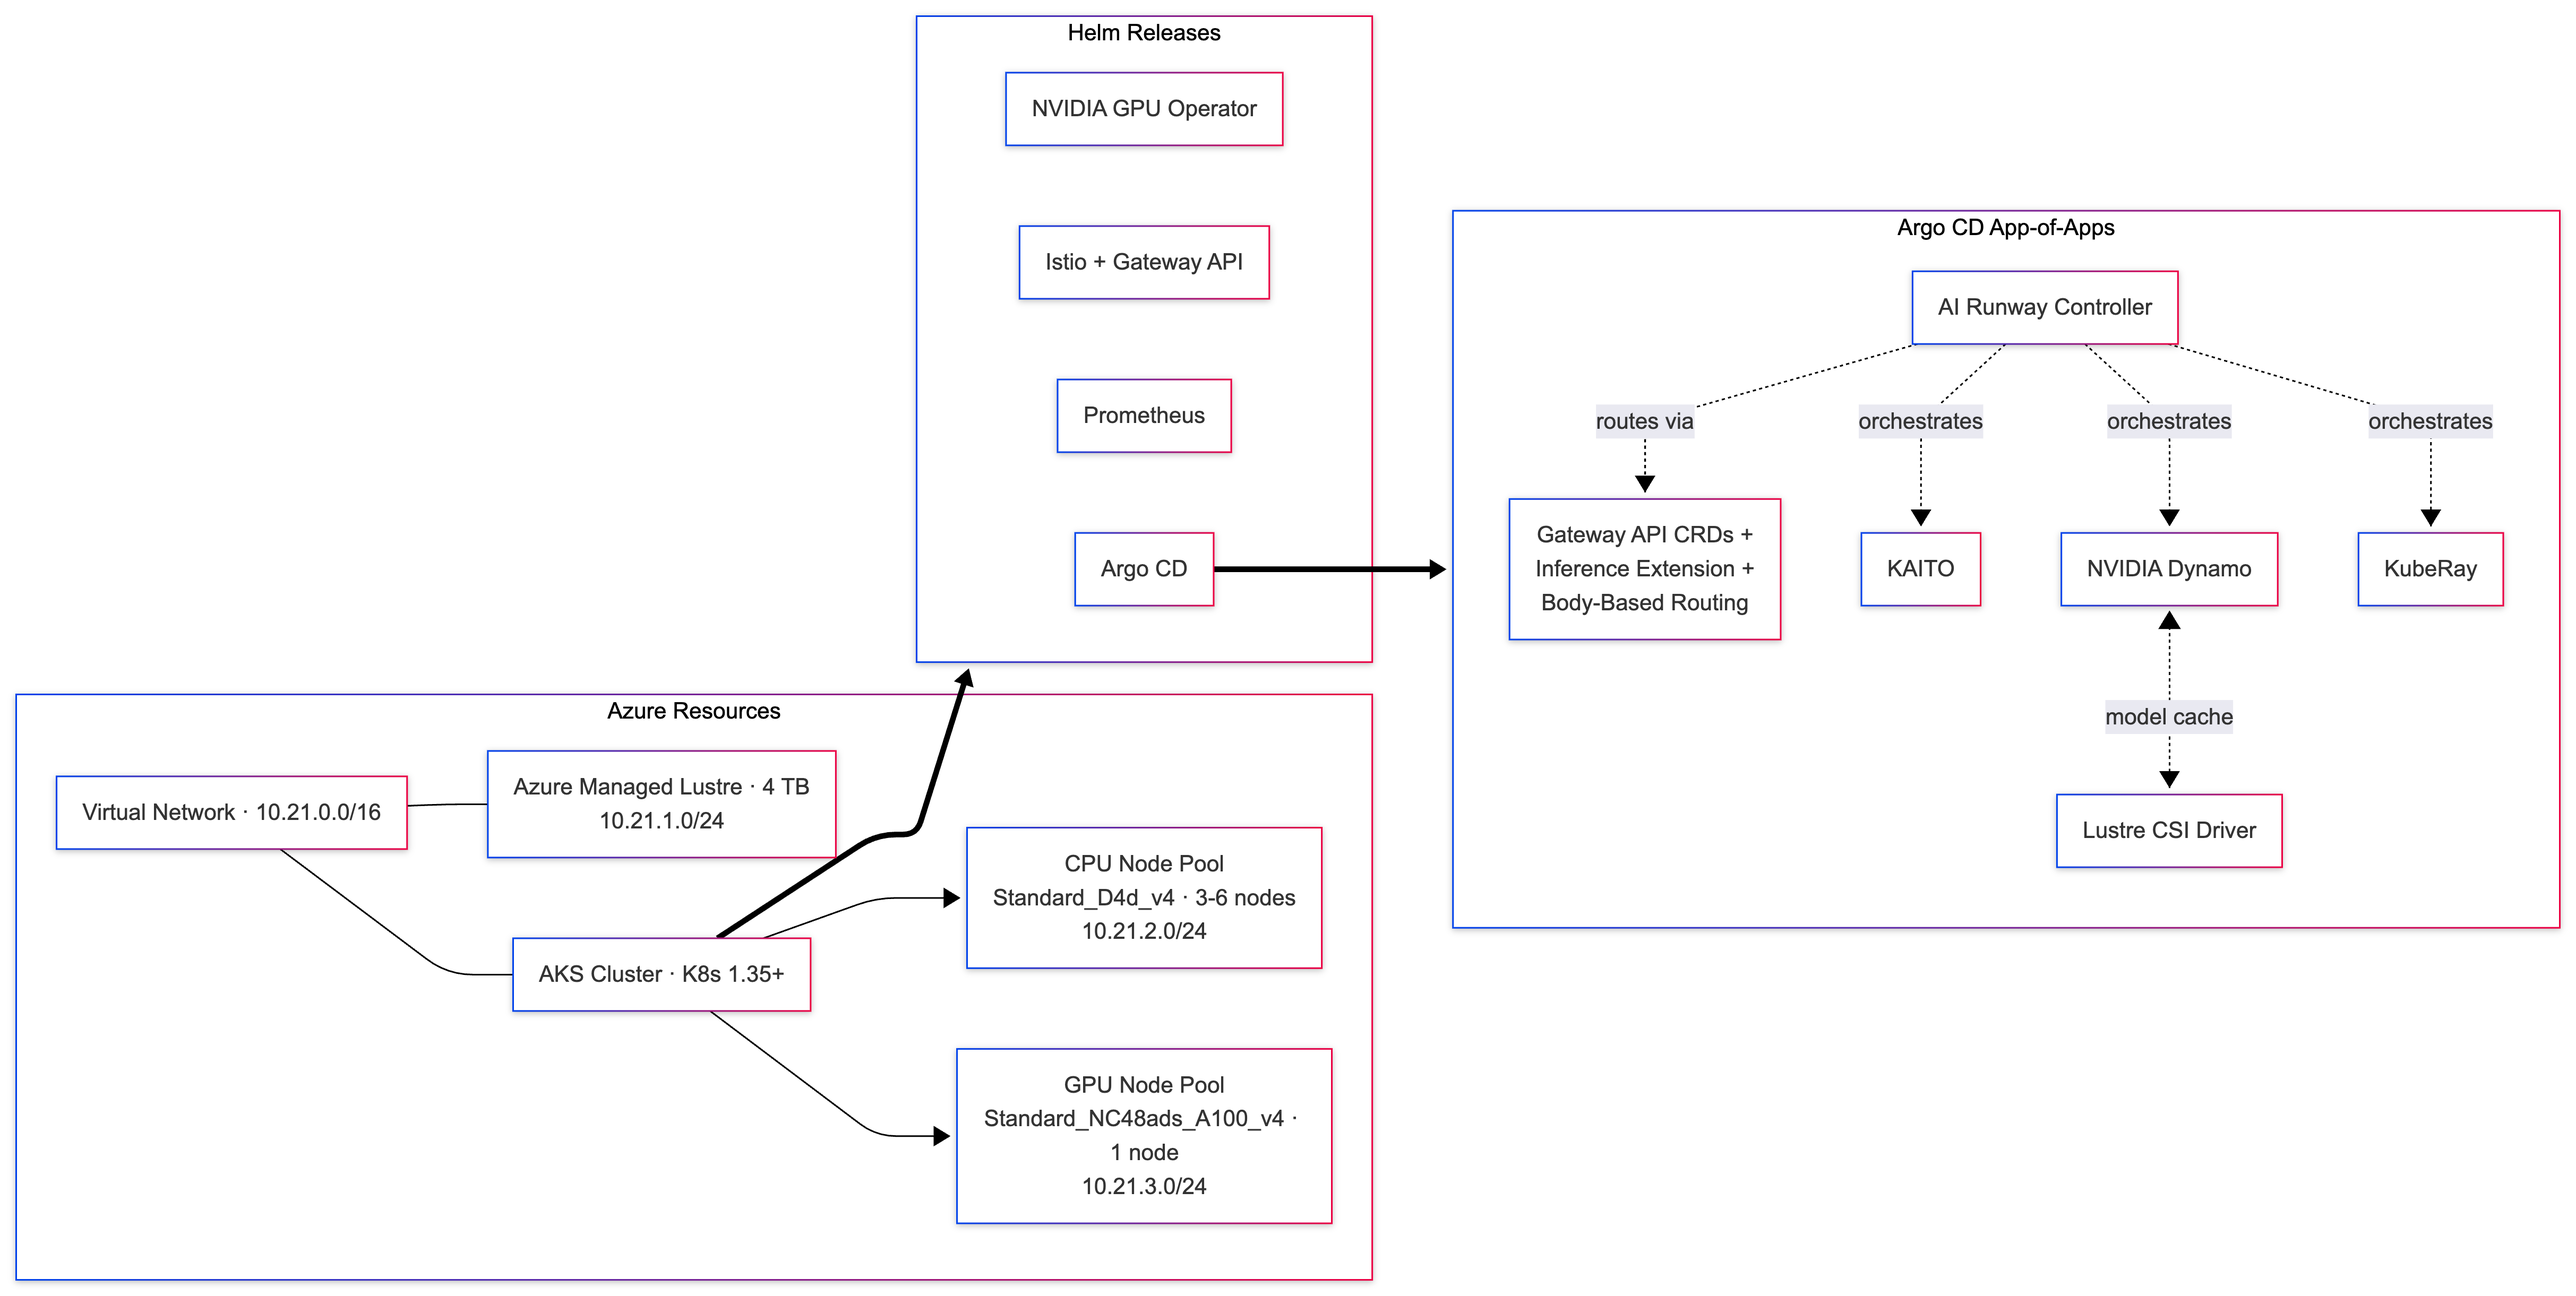
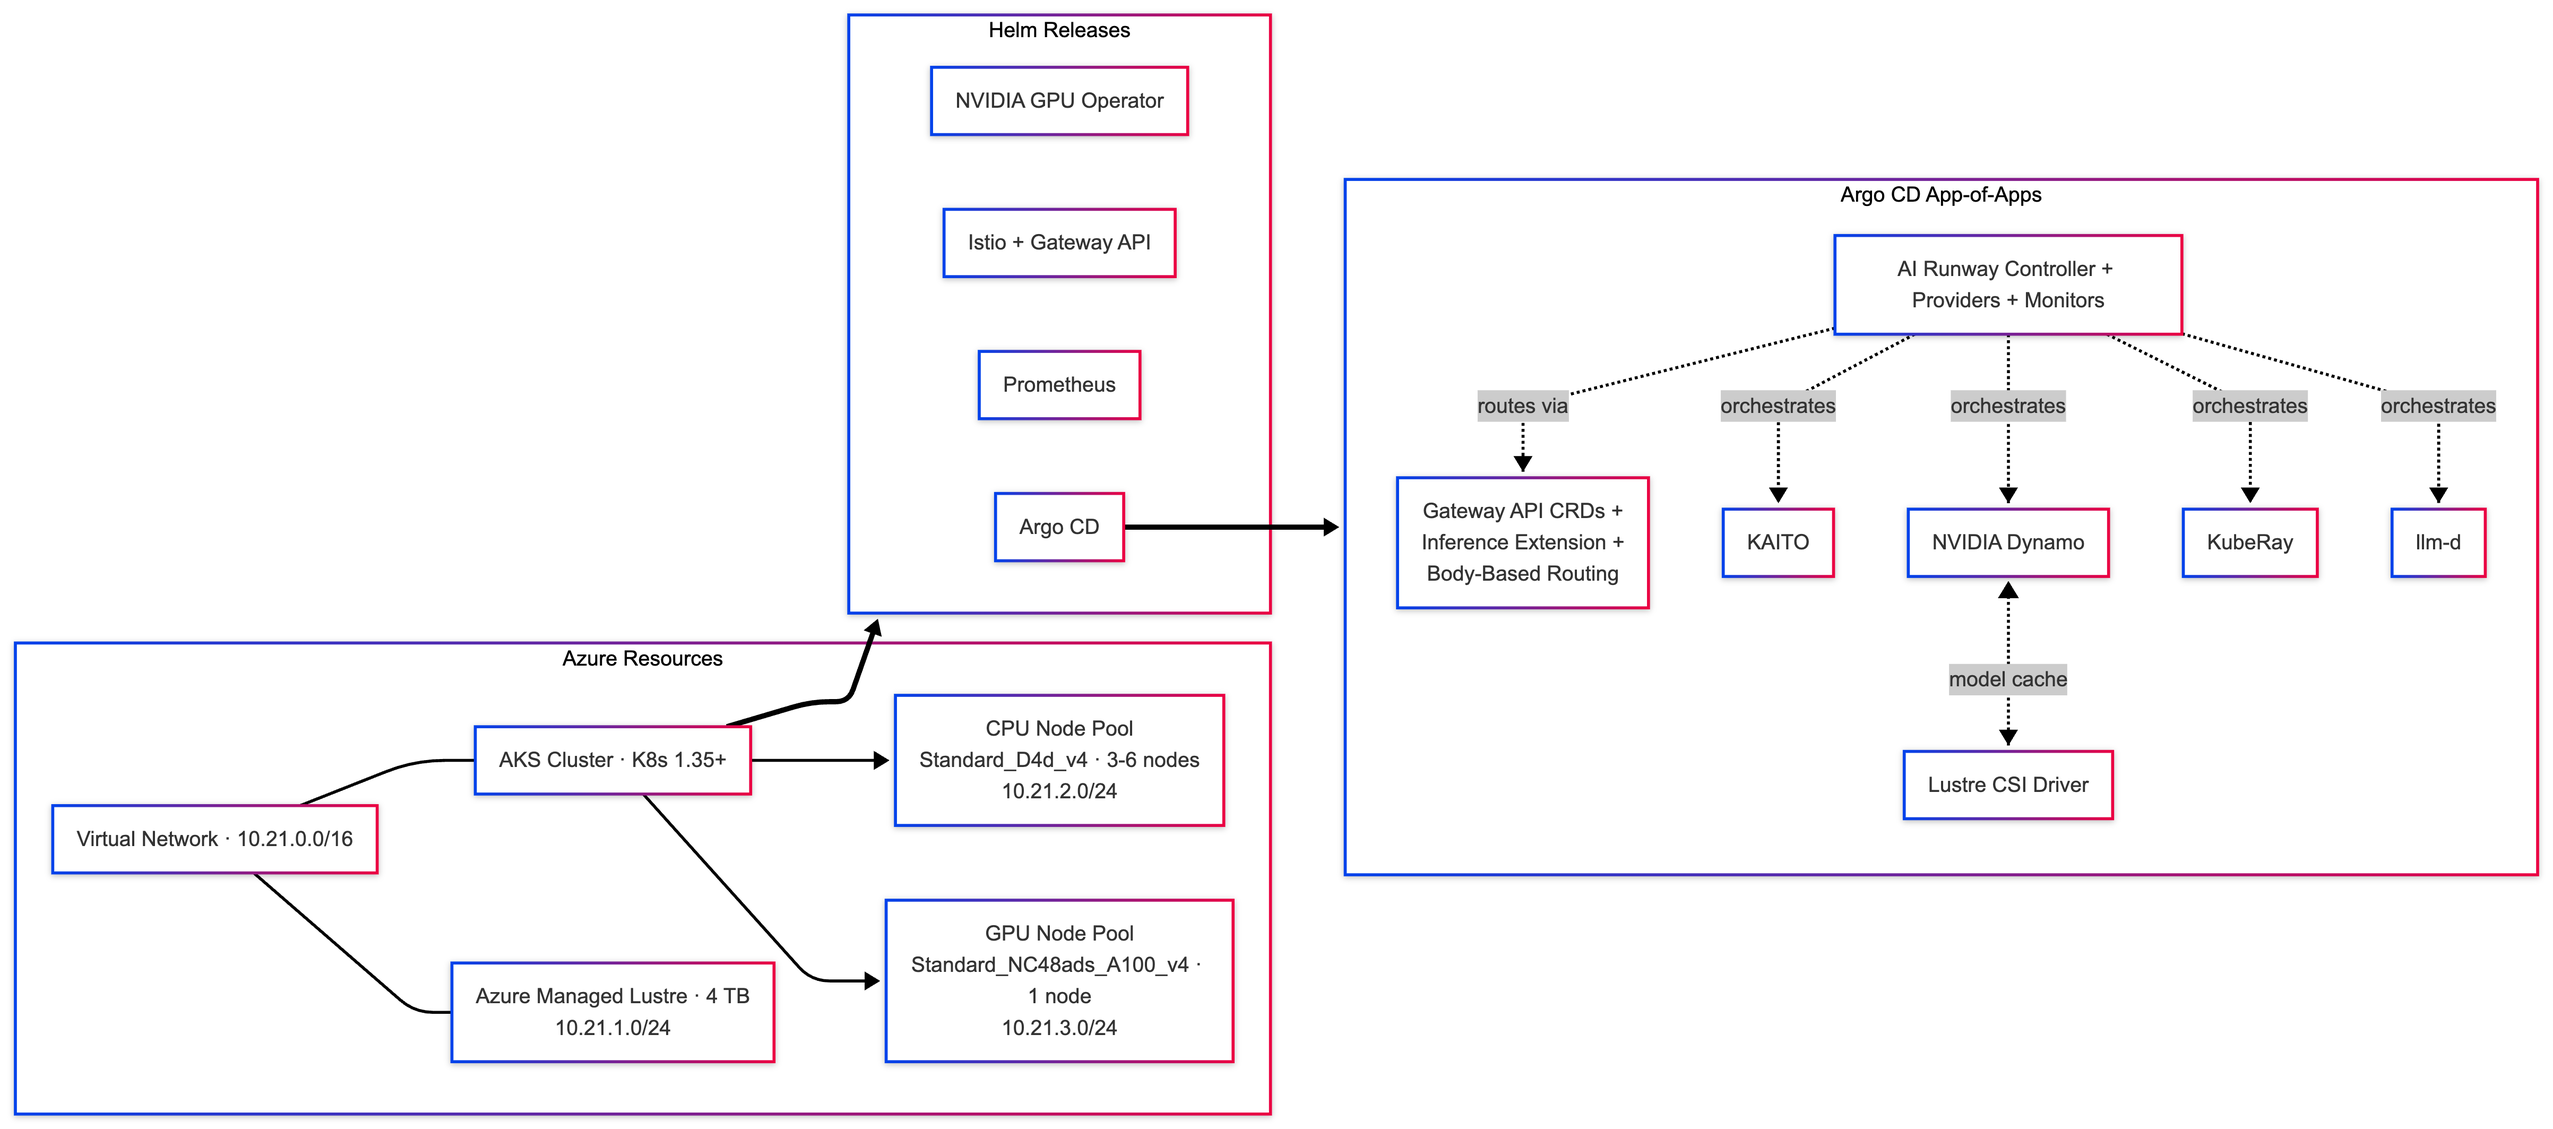
Update architecture diagrams in README and appendix, add missing Lustre component and clarify AI Runway orchestration

diff --git a/docs/README.md b/docs/README.md
@@ -84,8 +84,8 @@ Here is a high-level architecture diagram of the deployed infrastructure and app
 graph LR
     subgraph Azure["Azure Resources"]
         VNet["Virtual Network · 10.21.0.0/16"]
-        Lustre["Azure Managed Lustre · 4 TB<br/>10.21.1.0/24"]
         AKS["AKS Cluster · K8s 1.35+"]
+        Lustre["Azure Managed Lustre · 4 TB<br/>10.21.1.0/24"]
         DefaultNP["CPU Node Pool<br/>Standard_D4d_v4 · 3-6 nodes<br/>10.21.2.0/24"]
         InferenceNP["GPU Node Pool<br/>Standard_NC48ads_A100_v4 · 1 node<br/>10.21.3.0/24"]
     end
@@ -99,9 +99,10 @@ graph LR
 
     subgraph Apps["Argo CD App-of-Apps"]
         GW["Gateway API CRDs +<br/>Inference Extension +<br/>Body-Based Routing"]
-        AIRunway["AI Runway Controller"]
+        AIRunway["AI Runway Controller + Providers + Monitors"]
         KAITO["KAITO"]
         Dynamo["NVIDIA Dynamo"]
+        llm-d[llm-d]
         LustreCSI["Lustre CSI Driver"]
         KubeRay["KubeRay"]
     end
@@ -117,6 +118,7 @@ graph LR
     AIRunway -.->|orchestrates| KAITO
     AIRunway -.->|orchestrates| Dynamo
     AIRunway -.->|orchestrates| KubeRay
+    AIRunway -.->|orchestrates| llm-d
     AIRunway -.->|routes via| GW
     Dynamo <-.->|model cache| LustreCSI
 ```

diff --git a/docs/appendix-b.md b/docs/appendix-b.md
@@ -10,8 +10,8 @@ The Terraform code in `demos/workshop/infra/main.tf` bootstraps the underlying A
 graph LR
     subgraph Azure["Azure Resources"]
         VNet["Virtual Network · 10.21.0.0/16"]
-        Lustre["Azure Managed Lustre · 4 TB<br/>10.21.1.0/24"]
         AKS["AKS Cluster · K8s 1.35+"]
+        Lustre["Azure Managed Lustre · 4 TB<br/>10.21.1.0/24"]
         DefaultNP["CPU Node Pool<br/>Standard_D4d_v4 · 3-6 nodes<br/>10.21.2.0/24"]
         InferenceNP["GPU Node Pool<br/>Standard_NC48ads_A100_v4 · 1 node<br/>10.21.3.0/24"]
     end
@@ -25,9 +25,10 @@ graph LR
 
     subgraph Apps["Argo CD App-of-Apps"]
         GW["Gateway API CRDs +<br/>Inference Extension +<br/>Body-Based Routing"]
-        AIRunway["AI Runway Controller"]
+        AIRunway["AI Runway Controller + Providers + Monitors"]
         KAITO["KAITO"]
         Dynamo["NVIDIA Dynamo"]
+        llm-d[llm-d]
         LustreCSI["Lustre CSI Driver"]
         KubeRay["KubeRay"]
     end
@@ -43,6 +44,7 @@ graph LR
     AIRunway -.->|orchestrates| KAITO
     AIRunway -.->|orchestrates| Dynamo
     AIRunway -.->|orchestrates| KubeRay
+    AIRunway -.->|orchestrates| llm-d
     AIRunway -.->|routes via| GW
     Dynamo <-.->|model cache| LustreCSI
 ```
